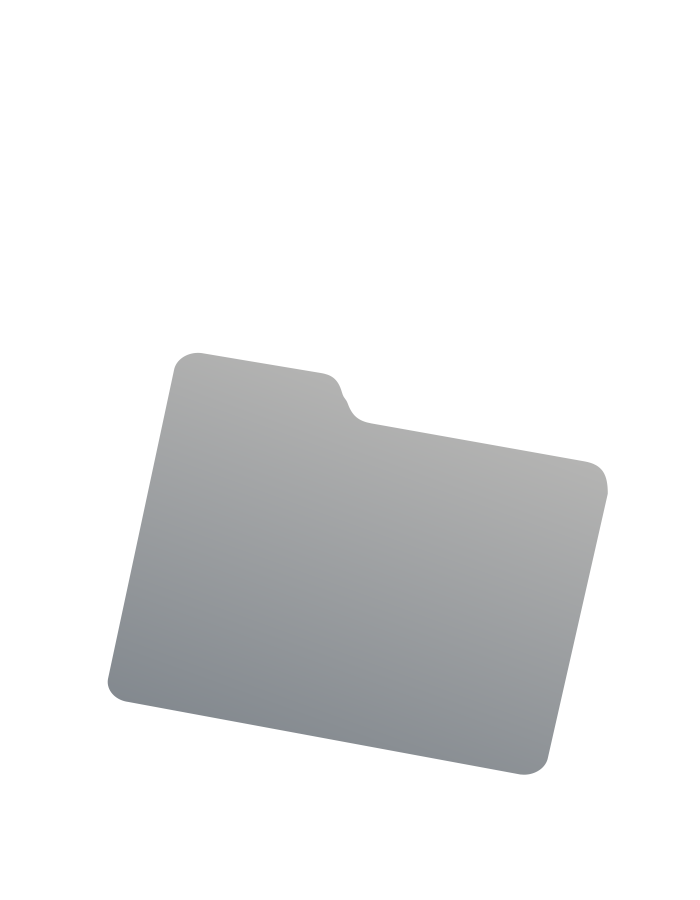
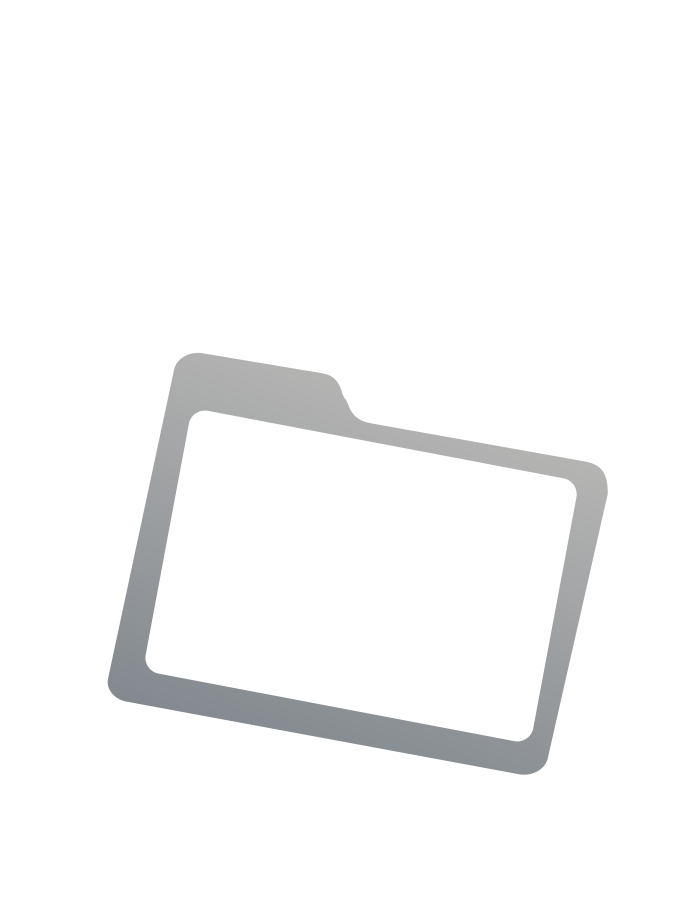
Preserve original closed folder papers and contain animated transparent layers

Changed region(s): [[0.21, 0.4356, 0.84, 0.84]]

diff --git a/style.css b/style.css
@@ -84,8 +84,8 @@
 .folder-open{transform-origin:50% 67%;transition:transform .65s cubic-bezier(.22,1,.36,1)}
 .folder-layer{position:absolute;inset:0;width:100%;height:100%;object-fit:contain;pointer-events:none;user-select:none}
 .folder-back{z-index:1}
-.folder-inserts{z-index:2;clip-path:inset(0 0 19% 0)}
-.folder-paper{transform:translateY(24%) rotate(var(--paper-turn,0deg));transform-origin:50% 64%;transition:transform .72s cubic-bezier(.22,1,.36,1)}
+.folder-inserts{z-index:2;overflow:hidden;clip-path:inset(0 0 19% 0)}
+.folder-paper{transform:translateY(34%) rotate(var(--paper-turn,0deg));transform-origin:50% 64%;transition:transform .72s cubic-bezier(.22,1,.36,1)}
 .folder-front{z-index:3}
 .folder-sticker{position:absolute;height:auto;pointer-events:none;user-select:none;opacity:0;transform:translateY(100%) scale(.4) rotate(-14deg);transition:transform .7s cubic-bezier(.2,.9,.25,1.18),opacity .28s ease}
 .sticker-muscle{left:14.6%;top:14.9%;width:22.4%;--sticker-delay:.08s}

diff --git a/index.html b/index.html
@@ -4,7 +4,7 @@
 <meta charset="utf-8"><meta name="viewport" content="width=device-width,initial-scale=1,viewport-fit=cover">
 <title>郑阳森 · 品牌视觉设计</title>
 <meta name="description" content="郑阳森的个人作品集，品牌视觉设计。">
-<link rel="stylesheet" href="style.css?v=13">
+<link rel="stylesheet" href="style.css?v=15">
 </head>
 <body>
 <main>
